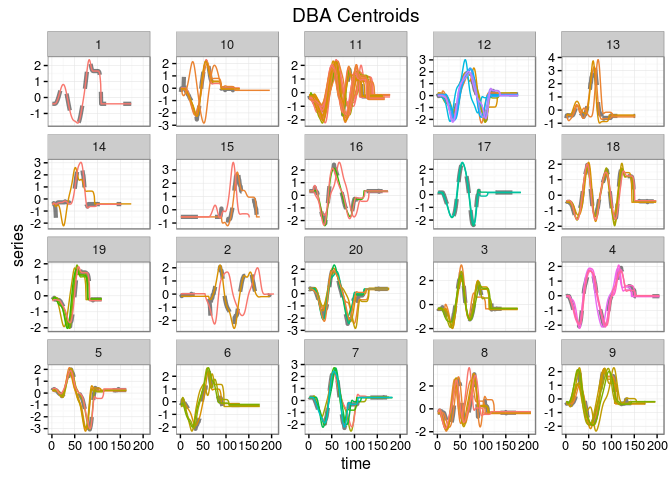
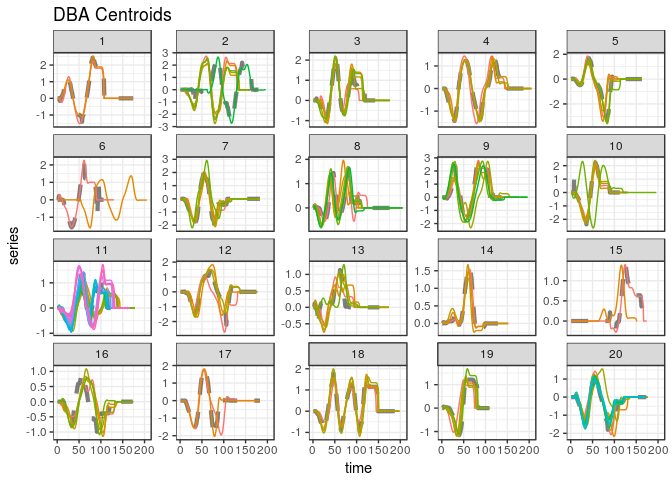
Multivariate plot sample

Changed region(s): [[0.0, 0.0, 1.0, 1.0]]

diff --git a/README.md b/README.md
@@ -35,39 +35,35 @@ Examples
 --------
 
 ``` r
-## Load data
+# Load series
 data(uciCT)
 
-## Reinterpolate data to equal length
-datalist <- zscore(CharTraj)
-data <- reinterpolate(CharTraj, new.length = max(lengths(CharTraj)))
+# Reinterpolate series to equal length
+series <- reinterpolate(CharTraj, new.length = max(lengths(CharTraj)))
+series <- zscore(series)
 
-## Common controls
+# Common controls (they are only used if appropriate)
 ctrl <- new("dtwclustControl", window.size = 20L, trace = TRUE)
 ```
 
 ### Partitional
 
 ``` r
-## =============================================================================================
-## Partitional clustering using DTW with help of lower bounds and PAM centroids
-## =============================================================================================
-
+# Using DTW with help of lower bounds and PAM centroids
 ctrl@pam.precompute <- FALSE
 
-kc.dtwlb <- dtwclust(data = data, k = 20, distance = "dtw_lb",
-                     centroid = "pam", seed = 3247, 
-                     control = ctrl)
-#> Iteration 1: Changes / Distsum = 100 / 2055.902
-#> Iteration 2: Changes / Distsum = 11 / 1743.629
-#> Iteration 3: Changes / Distsum = 5 / 1702.148
-#> Iteration 4: Changes / Distsum = 3 / 1702.929
-#> Iteration 5: Changes / Distsum = 2 / 1690.314
-#> Iteration 6: Changes / Distsum = 0 / 1690.314
+pc.dtwlb <- dtwclust(series, k = 20L, 
+                     distance = "dtw_lb", centroid = "pam", 
+                     seed = 3247, control = ctrl)
+#> Iteration 1: Changes / Distsum = 100 / 3214.899
+#> Iteration 2: Changes / Distsum = 18 / 2786.523
+#> Iteration 3: Changes / Distsum = 7 / 2700.449
+#> Iteration 4: Changes / Distsum = 3 / 2630.285
+#> Iteration 5: Changes / Distsum = 0 / 2630.285
 #> 
-#>  Elapsed time is 4.765 seconds.
+#>  Elapsed time is 4.789 seconds.
 
-plot(kc.dtwlb)
+plot(pc.dtwlb)
 ```
 
 ![](README-partitional-1.png)
@@ -75,23 +71,18 @@ plot(kc.dtwlb)
 ### Hierarchical
 
 ``` r
-## =============================================================================================
-## Hierarchical clustering based on shape-based distance
-## =============================================================================================
-
-hc.sbd <- dtwclust(datalist, type = "hierarchical",
-                   k = 19:21, distance = "sbd",
-                   method = "all",
-                   control = ctrl)
+# Based on shape-based distance
+hc.sbd <- dtwclust(CharTraj, type = "hierarchical", k = 19L:21L, 
+                   distance = "sbd", method = "all",
+                   preproc = zscore, control = ctrl)
 #> 
 #>  Calculating distance matrix...
 #> 
 #>  Performing hierarchical clustering...
 #> 
-#>  Elapsed time is 0.705 seconds.
+#>  Elapsed time is 0.691 seconds.
 
-cat("CVIs for HC+SBD:\n")
-#> CVIs for HC+SBD:
+# CVIs for HC+SBD
 print(cvis <- sapply(hc.sbd, cvi, b = CharTrajLabels))
 #>               [,1]        [,2]       [,3]        [,4]        [,5]
 #> ARI     0.74978939  0.68800515  0.3099641  0.52028537  0.44964526
@@ -159,6 +150,7 @@ print(cvis <- sapply(hc.sbd, cvi, b = CharTrajLabels))
 #> D       0.23163554  0.16176333  0.17471193  0.24428149
 #> COP     0.08067224  0.07635012  0.09213935  0.08780314
 
+# Best according to variation of information
 plot(hc.sbd[[which.min(cvis["VI", ])]])
 ```
 
@@ -167,103 +159,35 @@ plot(hc.sbd[[which.min(cvis["VI", ])]])
 ### TADPole
 
 ``` r
-## =============================================================================================
-## TADPole clustering
-## =============================================================================================
-
-kc.tadp <- dtwclust(data, type = "tadpole", k = 20,
+pc.tadp <- dtwclust(series, type = "tadpole", k = 20L,
                     dc = 1.5, control = ctrl)
 #> 
 #> Entering TADPole...
 #> 
-#> TADPole completed, pruning percentage = 86.5%
+#> TADPole completed, pruning percentage = 77.8%
 #> 
-#>  Elapsed time is 1.181 seconds.
+#>  Elapsed time is 1.533 seconds.
 
-plot(kc.tadp, clus = 1:4)
+plot(pc.tadp, clus = 1L:4L)
 ```
 
 ![](README-tadpole-1.png)
 
-### Parallel support
-
-``` r
-## =============================================================================================
-## Parallel support
-## =============================================================================================
-
-require(doParallel)
-#> Loading required package: doParallel
-#> Loading required package: foreach
-#> Loading required package: iterators
-cl <- makeCluster(detectCores(), "FORK")
-registerDoParallel(cl)
-
-## Creating a custom distance (normalized DTW)
-ndtw <- function(x, y, ...) {
-    dtw::dtw(x, y, step.pattern = symmetric2,
-             distance.only = TRUE, ...)$normalizedDistance
-}
-
-## Registering the function with 'proxy'
-proxy::pr_DB$set_entry(FUN = ndtw, names=c("nDTW"),
-                       loop = TRUE, type = "metric", distance = TRUE,
-                       description = "Normalized DTW with L1 norm")
-
-## Data with different length
-kc.ndtw <- dtwclust(datalist, k = 20,
-                    distance = "nDTW", centroid = "pam",
-                    seed = 159, control = new("dtwclustControl", nrep = 8L))
-
-sapply(kc.ndtw, cvi, b = CharTrajLabels, type = "VI")
-#>        VI        VI        VI        VI        VI        VI        VI 
-#> 0.2755874 0.4448495 0.5736902 0.5047190 0.4465854 0.3929220 0.3808492 
-#>        VI 
-#> 0.4439003
-
-## DBA centroids
-kc <- dtwclust(datalist, k = 20,
-               distance = "dtw_basic", centroid = "dba",
-               seed = 9421, control = list(trace = TRUE, window.size = 20L),
-               normalize = TRUE)
-#> Iteration 1: Changes / Distsum = 100 / 6.749242
-#> Iteration 2: Changes / Distsum = 2 / 4.229023
-#> Iteration 3: Changes / Distsum = 0 / 4.180198
-#> 
-#>  Elapsed time is 4.615 seconds.
-
-## Modifying some plot parameters
-plot(kc, labs.arg = list(title = "DBA Centroids", x = "time", y = "series"))
-```
-
-![](README-parallel-1.png)
-
-``` r
-
-## Returning to sequential calculations
-stopCluster(cl)
-registerDoSEQ()
-```
-
 ### Fuzzy
 
 ``` r
-## =============================================================================================
-## Fuzzy clustering (autocorrelation-based)
-## =============================================================================================
-
 # Calculate autocorrelation up to 50th lag, considering a list of time series as input
 acf_fun <- function(dat, ...) {
-    lapply(dat, function(x) as.numeric(acf(x, lag.max = 50, plot = FALSE)$acf))
+    lapply(dat, function(x) as.numeric(acf(x, lag.max = 50L, plot = FALSE)$acf))
 }
 
-# Fuzzy c-means
-fc <- dtwclust(datalist[1:25], type = "fuzzy", k = 5,
+# Autocorrelation-based fuzzy c-means
+fc <- dtwclust(series[1L:25L], type = "fuzzy", k = 5L,
                preproc = acf_fun, distance = "L2",
                seed = 123)
 
 fc
-#> dtwclust(data = datalist[1:25], type = "fuzzy", k = 5, distance = "L2", 
+#> dtwclust(data = series[1L:25L], type = "fuzzy", k = 5L, distance = "L2", 
 #>     preproc = acf_fun, seed = 123)
 #> 
 #> fuzzy clustering with 5 clusters
@@ -272,26 +196,71 @@ fc
 #> 
 #> Time required for analysis:
 #>    user  system elapsed 
-#>   0.144   0.000   0.143 
+#>   0.228   0.000   0.225 
 #> 
 #> Head of fuzzy memberships:
 #> 
-#>       cluster_1   cluster_2  cluster_3  cluster_4 cluster_5
-#> A.V1 0.04517433 0.015248385 0.06048626 0.02847461 0.8506164
-#> A.V2 0.02648172 0.007341668 0.03623648 0.01489308 0.9150471
-#> A.V3 0.03920172 0.007216578 0.03668630 0.01368817 0.9032072
-#> A.V4 0.09258928 0.193779128 0.10495491 0.19932425 0.4093524
-#> A.V5 0.09366124 0.162965470 0.11758524 0.17523731 0.4505507
-#> B.V1 0.39400450 0.034717343 0.35507763 0.07914583 0.1370547
+#>       cluster_1   cluster_2   cluster_3   cluster_4 cluster_5
+#> A.V1 0.04732715 0.017695266 0.002662067 0.008402290 0.9239132
+#> A.V2 0.01494997 0.005368273 0.000809054 0.002611058 0.9762616
+#> A.V3 0.06605890 0.027250783 0.002808192 0.008388257 0.8954939
+#> A.V4 0.14725836 0.350302464 0.025041488 0.070074292 0.4073234
+#> A.V5 0.14528435 0.227567379 0.024316156 0.074457217 0.5283749
+#> B.V1 0.49030359 0.077478929 0.067994926 0.150767814 0.2134547
 ```
+
+### (Some) multivariate support
+
+``` r
+# Multivariate series, provided as a list of matrices
+mv <- CharTrajMV[1L:20L]
+
+# Using GAK distance
+mvc <- dtwclust(mv, k = 4L, distance = "gak", seed = 390)
+
+# Note how the variables of each series are appended one after the other in the plot
+plot(mvc)
+```
+
+![](README-multivariate-1.png)
+
+### Parallel support
+
+``` r
+require(doParallel)
+
+# Create and register parallel workers
+cl <- makeCluster(detectCores(), "FORK")
+registerDoParallel(cl)
+
+# Parallel backend detected automatically
+hc <- dtwclust(CharTraj, k = 20L,
+               distance = "dtw_basic", centroid = "dba",
+               seed = 9421, control = list(trace = TRUE, window.size = 20L))
+#> Iteration 1: Changes / Distsum = 100 / 1531.018
+#> Iteration 2: Changes / Distsum = 3 / 886.4655
+#> Iteration 3: Changes / Distsum = 2 / 873.7322
+#> Iteration 4: Changes / Distsum = 0 / 864.1761
+#> 
+#>  Elapsed time is 5.099 seconds.
+
+## Returning to sequential calculations
+stopCluster(cl)
+registerDoSEQ()
+
+## Modifying some plot parameters
+plot(hc, labs.arg = list(title = "DBA Centroids", x = "time", y = "series"))
+```
+
+![](README-parallel-1.png)
 
 Dependencies
 ------------
 
 -   Partitional procedures are inspired by the `flexclust` package.
--   Hierarchical procedures use the native `hclust` function.
+-   Hierarchical procedures use the native `hclust` function by default.
 -   Cross-distance matrix calculations make use of the `proxy` package.
--   The core DTW calculations can be done by the `dtw` package.
+-   The core DTW calculations can be done by the `dtw` package or the `dtw_basic` function.
 -   Plotting is done with the `ggplot2` package.
 -   Parallel computation depends on the `foreach` package.
 -   Cluster evaluation can be done with package `clue` or the `cvi` function.
